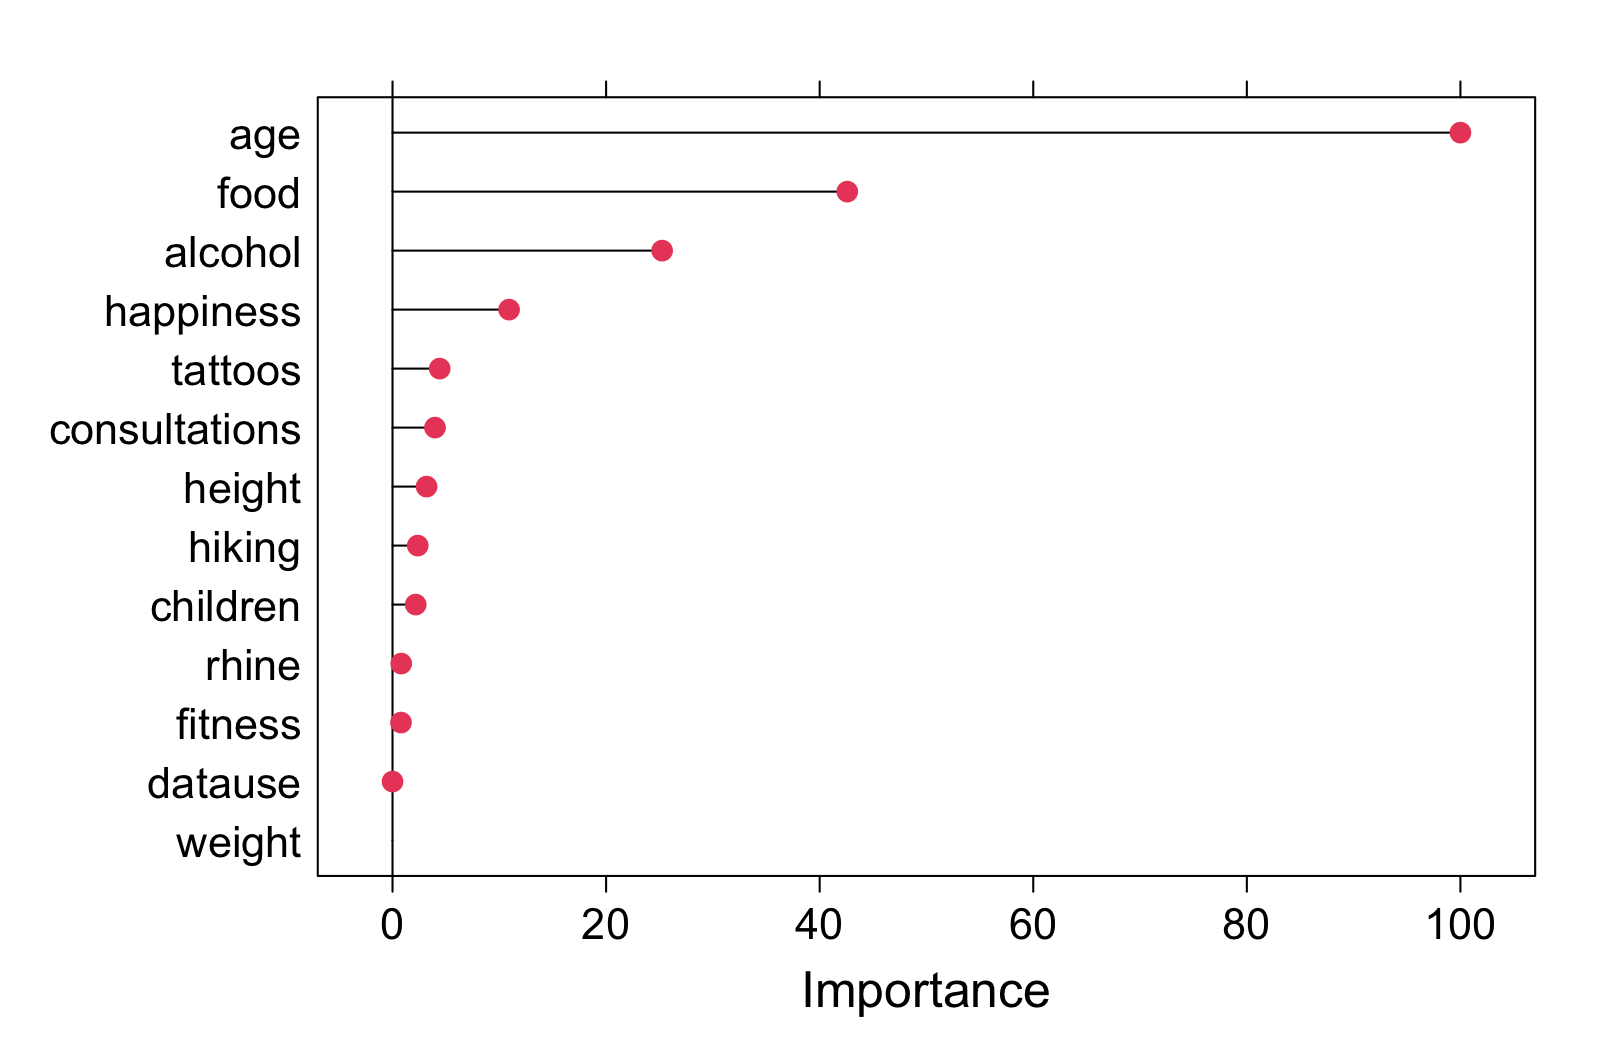
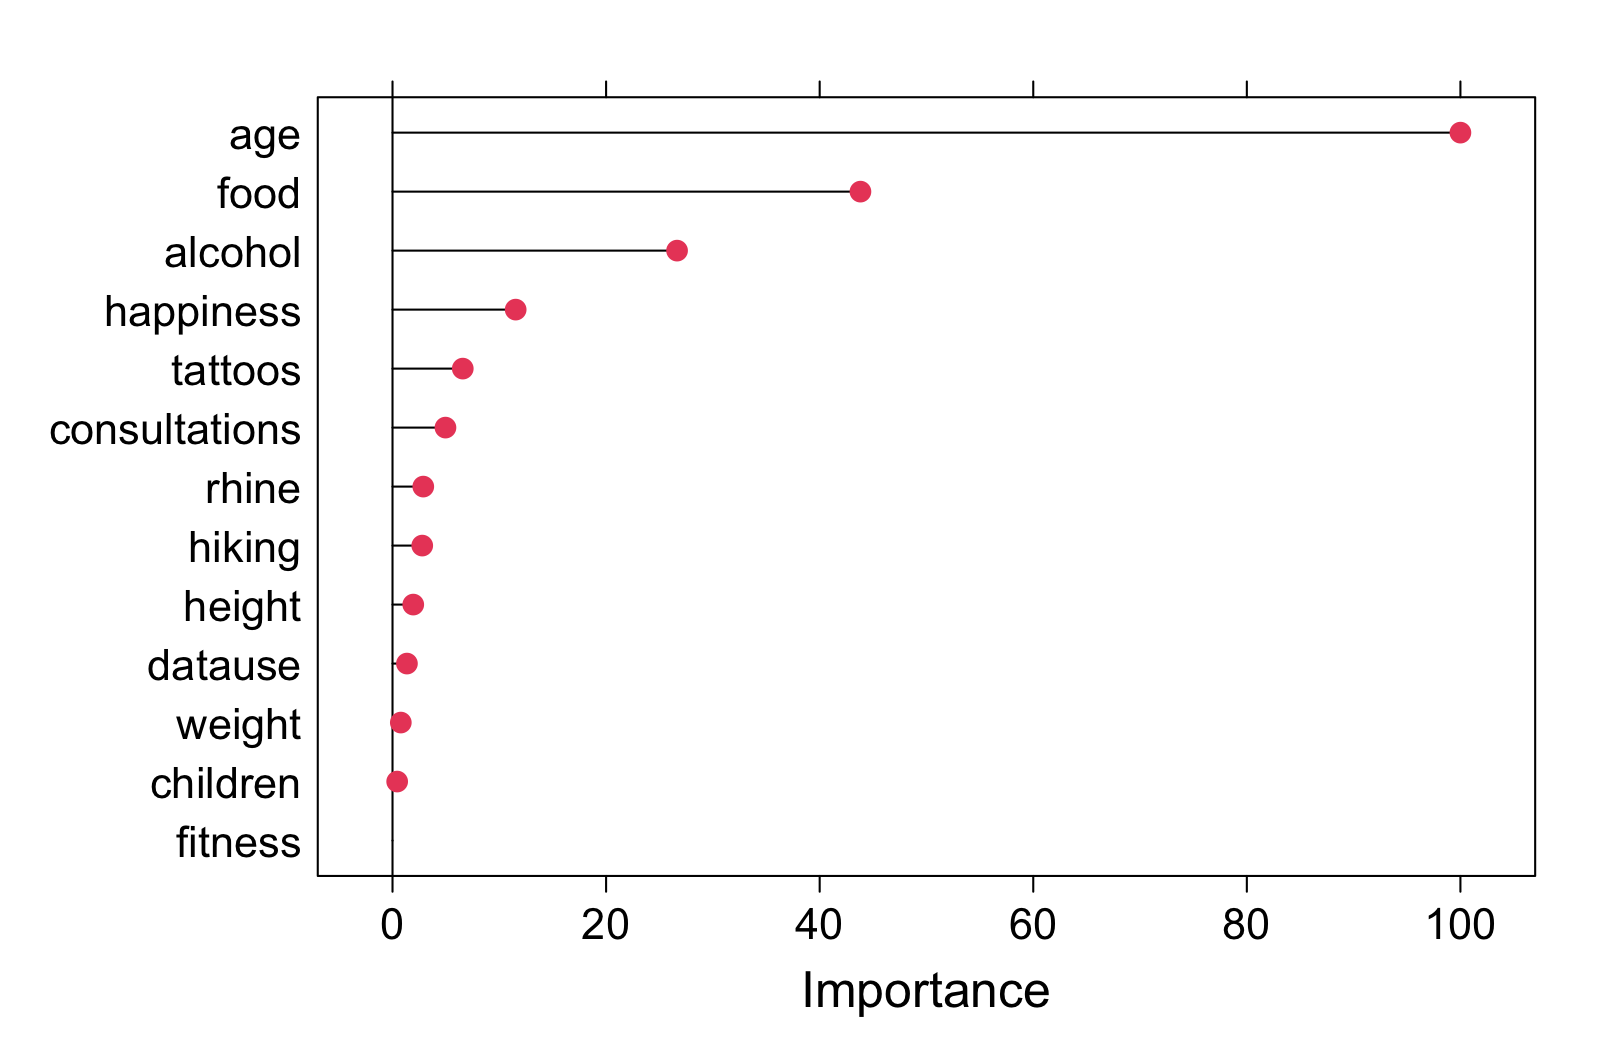
minor features slides

diff --git a/_sessions/Features/Features.html b/_sessions/Features/Features.html
@@ -79,7 +79,7 @@ As the number of features grows...
 
 &lt;high&gt;Efficiency&lt;/high&gt; - the amount of computations grows (how much depends on the model).
 
-&lt;high&gt;Redundancy&lt;/high&gt; - the amount of redudancy grows (how much depends on the model). 
+&lt;high&gt;Redundancy&lt;/high&gt; - the amount of redundancy grows (how much depends on the model). 
 
 &amp;#8594; &lt;high&gt;Small set of good predictors&lt;high&gt;
 
@@ -154,7 +154,7 @@ plot(varImp(income_lm))
 # `varImp()`
 
 .pull-left45[
-`varImp()` &lt;high&gt;automically selects appropriate measure&lt;/high&gt; of variable importance for a given algorithm. 
+`varImp()` &lt;high&gt;automatically selects appropriate measure&lt;/high&gt; of variable importance for a given algorithm. 
 
 
 ```r
@@ -167,15 +167,15 @@ lm variable importance
 
           Overall
 age       100.000
-food       42.324
-alcohol    24.698
-happiness  10.714
-tattoos     4.219
-height      2.452
-children    2.020
-fitness     0.619
-weight      0.208
-datause     0.000
+food       43.416
+alcohol    26.073
+happiness  11.499
+tattoos     6.442
+datause     1.135
+height      0.750
+children    0.284
+fitness     0.137
+weight      0.000
 ```
 
 ]
@@ -225,12 +225,12 @@ Outer resampling method: Bootstrapped (25 reps)
 
 Resampling performance over subset size:
 
- Variables  RMSE Rsquared   MAE RMSESD RsquaredSD  MAESD Selected
-         3 0.369    0.870 0.291 0.0114     0.0118 0.0107         
-         4 0.366    0.872 0.288 0.0123     0.0121 0.0114        *
-         5 0.368    0.871 0.289 0.0115     0.0121 0.0104         
-        10 0.370    0.869 0.291 0.0120     0.0124 0.0108         
-        14 0.370    0.869 0.291 0.0121     0.0125 0.0109         
+ Variables  RMSE Rsquared   MAE  RMSESD RsquaredSD   MAESD Selected
+         3 0.382    0.856 0.301 0.00889    0.01056 0.00751         
+         4 0.378    0.859 0.296 0.00836    0.01010 0.00745        *
+         5 0.378    0.858 0.297 0.00842    0.00997 0.00741         
+        10 0.379    0.858 0.297 0.00803    0.00976 0.00725         
+        14 0.379    0.858 0.297 0.00772    0.00955 0.00697         
 
 The top 4 variables (out of 4):
    age, food, alcohol, happiness
